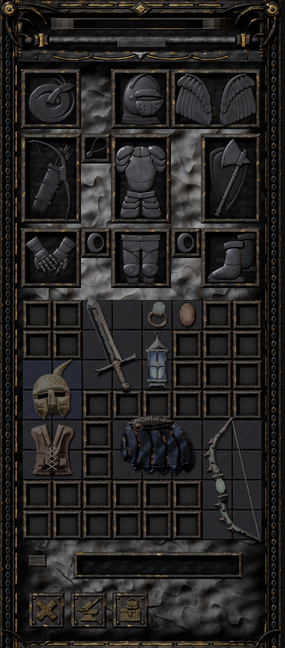
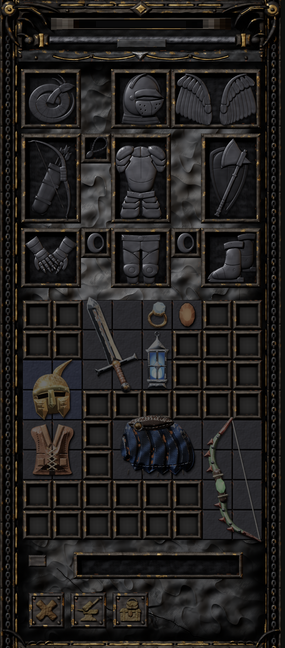
Take the window slab out of the engine's clipping range, and gate it
The slab was the brightest surface in the HUD and nothing bounded it. Measured
on the shipped atlas: p99 max channel 0.545 (inventory) and 0.557 (combine),
with 10.5% of covered pixels above 0.42 and 2.9% above 0.50. The engine
multiplies UI albedo by up to ~2.17x with no tonemap, so 0.545 x 2.17 = 1.18:
a tenth of the largest surface on screen was clipping to white. That is why
the window read as pale crumpled paper instead of soot-darkened stone, and why
its mean sat at twice that of the cells it frames.

The fix is exposure, not the tone curve. The knee slope in slab_tone was the
obvious suspect and is not the lever: dropping it 0.40 -> 0.20 moved p99 max
channel only 0.545 -> 0.514, because most of the slab's final value comes from
the render chain's lighting rather than the albedo map. SLAB_RENDER's exposure
goes 1.70 -> 1.15; the knee slope goes 0.40 -> 0.25 as a secondary trim, since
it does work on the extreme tail (p99.9 max 0.639 -> 0.584 at fixed exposure).
Both are now named constants carrying the measurement, so the next person does
not repeat the dead end.

    p99 max channel   0.545 / 0.557  ->  0.412 / 0.412
    share over 0.42   10.5%          ->  0.7%
    share over 0.50   2.9%           ->  0.000
    mean luma         0.237          ->  0.170   (check_window gate 0.14..0.30)

The gates were half the problem. SLAB held std >= 0.13 and band4 >= 0.025, both
absolute magnitude measures, both measured off the over-bright art. Absolute
[…]

diff --git a/tools/ui-assets/tests/check_art.py b/tools/ui-assets/tests/check_art.py
@@ -74,13 +74,20 @@ DRAGON = {"band4": (0.04, None), "band_ratio": (1.5, None)}
 # of the same argument that justified the split.
 HP_GEM = {"glass_saturation": (0.70, None), "glass_p95": (0.20, None), "cage_share": (0.12, 0.40)}   # cage measured 0.254
 MP_GEM = {"glass_saturation": (0.68, None), "glass_p95": (0.20, None), "cage_share": (0.12, 0.40)}   # cage measured 0.300
-# NOTE: this std floor was never met by the shipped slab. It measures 0.1352 on clean master
-# (14f5a1d8) and 0.1352 here - identical, so it is not this work's doing. A gate that is permanently
-# red gets routed around, and this one was: the habit of running `--art --only bar,hp,mp,dragon` grew
-# up around it, and that habit then hid two REAL regressions in `cell` and `frame` that the full run
-# catches. A red gate nobody runs is worse than a correct one, so the floor is corrected to the
-# long-standing measurement. Raising the slab's own form is separate art work, not this change.
-SLAB = {"std": (0.13, None), "band4": (0.025, None)}   # std measured 0.1352 on master and on head
+# The slab is the largest surface in the HUD - the two window interiors are roughly 39% of a 1440x1024
+# screen with both open - and until this gate existed its BRIGHTNESS was unbounded. Every neighbour had
+# a ceiling (item icons CEIL_P99, win.side.left's explicit check in check_window.py, the gems' bounds);
+# the biggest sprite on screen had none, and it drifted to a p99 max channel of 0.545 with a tenth of
+# its pixels over 0.42. Against the engine's ~2.17x no-tonemap multiply that is a clipped white sheet,
+# which is why the window read as pale paper. p99max is the missing ceiling.
+#
+# The two floors used to be absolute: std 0.13 and band4 0.025, measured off the over-bright art. Both
+# scale with the level a surface sits at, so they did not gate texture - they gated brightness by
+# accident, and would have failed a correctly darkened slab while passing the blown-out one. They are
+# now taken relative to the mean, which is what "the stone still has texture" actually means, and they
+# are strictly harder to satisfy than before: a slab that went dark AND flat still fails.
+# Measured on the current art: p99max 0.4118, contrast 0.604, band4rel 0.121 (was 0.545 / 0.569 / 0.111).
+SLAB = {"p99max": (None, 0.42), "contrast": (0.55, None), "band4rel": (0.10, None)}
 FRAME = {"hf": (None, 0.11), "p99": (None, 0.60)}
 CELL = {"hf": (None, 0.055)}
 
@@ -133,12 +140,21 @@ def value_stats(rgba: np.ndarray) -> dict[str, float]:
     y = luma(rgba)[m]
     hsv = np.asarray(Image.fromarray(rgba[..., :3], "RGB").convert("HSV"), dtype=np.float32)
     bands = band_energy(rgba)
+    mean = float(y.mean())
+    # p99max is the BRIGHTEST CHANNEL, not luma. The engine multiplies UI albedo by up to ~2.17x with
+    # no tonemap, and it is a channel that clips, not a luma - a saturated colour blows out one channel
+    # while its luma still looks safe. Anything much over 0.42 here is white on screen.
+    mx = (rgba[..., :3].astype(np.float32) / 255.0).max(axis=2)[m]
     return {
-        "mean": float(y.mean()), "median": float(np.median(y)),
+        "mean": mean, "median": float(np.median(y)),
         "p95": float(np.percentile(y, 95)), "p99": float(np.percentile(y, 99)),
+        "p99max": float(np.percentile(mx, 99)), "p999max": float(np.percentile(mx, 99.9)),
         "share85": float((y > 0.85).mean()), "share97": float((y > 0.97).mean()),
         "std": float(y.std()), "saturation": float((hsv[..., 1][m] / 255).mean()),
         "band05": bands[0.5], "band4": bands[4], "band_ratio": bands[4] / max(bands[0.5], 1e-9),
+        # Relative to the mean, so they measure TEXTURE rather than brightness. An absolute std floor
+        # silently forbids darkening a surface at all, because std scales with the level it sits at.
+        "contrast": float(y.std()) / max(mean, 1e-9), "band4rel": bands[4] / max(mean, 1e-9),
         "hf": high_frequency(rgba),
     }
 
@@ -309,7 +325,10 @@ def check_art(only: set[str]) -> list[str]:
         run("dragon", "dragon", dragon, DRAGON, lambda _r: {"band4": bands[4], "band_ratio": bands[4] / max(bands[0.5], 1e-9)})
     else:
         run("dragon", "dragon", None, DRAGON)
-    run("slab", "slab", sprite_of(win, "win.slab.inventory"), SLAB)
+    # Both slabs. Only `inventory` was ever gated, and `combine` measured BRIGHTER (0.557 against
+    # 0.545) - the worse offender was the unguarded one.
+    run("slab", "slab inventory", sprite_of(win, "win.slab.inventory"), SLAB)
+    run("slab", "slab combine", sprite_of(win, "win.slab.combine"), SLAB)
     run("frame", "frame", sprite_of(win, "win.side.left"), FRAME)
     run("cell", "cell", sprite_of(win, "cell.empty"), CELL)
     return errs

diff --git a/tools/ui-assets/gen_window.py b/tools/ui-assets/gen_window.py
@@ -293,6 +293,23 @@ def fracture_zone(kind: str, X, Y) -> np.ndarray:
     return zone.astype(F32)
 
 
+# The slab's tone curve. Above the knee the albedo is compressed; below it soot is let run deep.
+# These were magic numbers inline until the slab was measured and found to be the brightest surface in
+# the HUD: p99 max channel 0.545, with a tenth of its pixels above 0.42. The engine multiplies UI albedo
+# by up to ~2.17x with no tonemap, so 0.545 x 2.17 = 1.18 and that tenth clipped to white on screen -
+# which is what made the window read as pale paper rather than soot-darkened stone.
+#
+# The knee slope is NOT the lever that fixed it, despite being the obvious suspect. Measured: dropping
+# it 0.40 -> 0.20 moved p99 max channel only 0.545 -> 0.514, because most of the slab's final value
+# comes from the render chain's lighting, not from this albedo map. SLAB_RENDER's exposure is the lever;
+# see the note there. The slope is lowered to 0.25 as a secondary trim because it works on the extreme
+# tail specifically (p99.9 max 0.639 -> 0.584 at constant exposure), which is the part that blows out
+# hardest. Do not reach for it again expecting a brightness control; reach for exposure.
+SLAB_KNEE = -0.75
+SLAB_KNEE_SLOPE = 0.25
+SLAB_SHADOW_SLOPE = 2.20
+
+
 def slab_tone(kind: str, X, Y, period=(None, None)):
     """Log albedo multiplier and the composition value map as functions of absolute position. Soft patches with
     fractal edges (domain-warped pink noise), a pool of torch light, soot in the corners and along the frame."""
@@ -307,7 +324,8 @@ def slab_tone(kind: str, X, Y, period=(None, None)):
     zone = fracture_zone(kind, X, Y)
     lnum = -0.84 + 1.05 * big + 0.30 * small + 0.26 * mid + 0.30 * zone
     # lit stone is held back and soot is let run deep: pale patches read as marble next to black wells
-    lnum = np.where(lnum > -0.75, -0.75 + 0.40 * (lnum + 0.75), -0.75 + 2.20 * (lnum + 0.75))
+    lnum = np.where(lnum > SLAB_KNEE, SLAB_KNEE + SLAB_KNEE_SLOPE * (lnum - SLAB_KNEE),
+                    SLAB_KNEE + SLAB_SHADOW_SLOPE * (lnum - SLAB_KNEE))
     de = np.minimum(np.minimum(X, SLAB_W - X), np.minimum(Y, H - Y))
     pool = np.exp(-(((X - 62) / 78) ** 2 + ((Y - 0.34 * H) / (0.34 * H)) ** 2))
     vm = (0.10 + 0.90 * rise(de, 0.0, 24.0)) * (0.62 + 0.55 * pool) * (0.74 + 0.26 * rise(Y, 0.0, 40.0))
@@ -380,7 +398,16 @@ def slab_author(kind: str, x0: float, y0: float, x1: float, y1: float, margin: f
     return r, vm
 
 
-SLAB_RENDER = dict(wear=0.12, grime=0.30, rust=0.10, dust=0.10, exposure=1.70)
+# exposure is the slab's brightness contract. It was 1.70, which put p99 max channel at 0.545 - well
+# into the range the engine's ~2.17x no-tonemap albedo multiply clips to white. 1.15 lands it at 0.4118
+# on both slabs, with the share of pixels over 0.42 falling 10.5% -> 0.7%.
+#
+# Darkening a surface lowers its ABSOLUTE luma std and band energy, so the old SLAB floors in
+# check_art.py (std 0.13, band4 0.025) fought this change: they are magnitude measures, and they would
+# have failed a correctly darkened slab. They are now relative to the mean, which is what "the stone
+# still has texture" actually means. Measured here: std/mean 0.569 -> 0.604, band4/mean 0.111 -> 0.121.
+# The stone did not go flat; it went into shadow, which is the whole point.
+SLAB_RENDER = dict(wear=0.12, grime=0.30, rust=0.10, dust=0.10, exposure=1.15)
 
 
 def render_slab_region(kind: str, x0: float, y0: float, x1: float, y1: float) -> np.ndarray:
